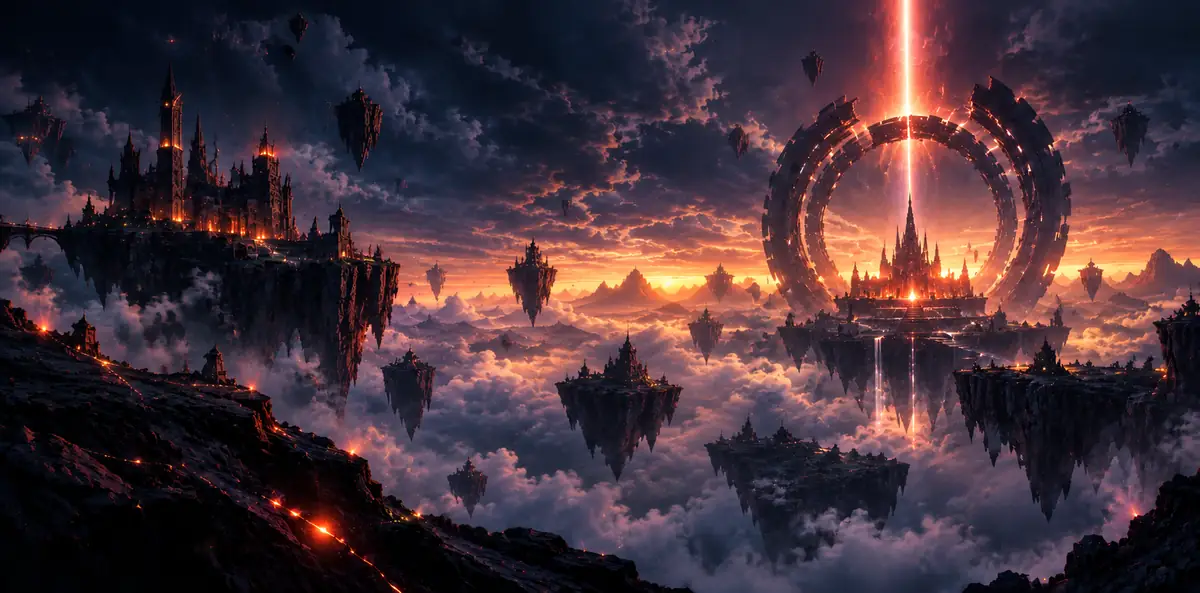
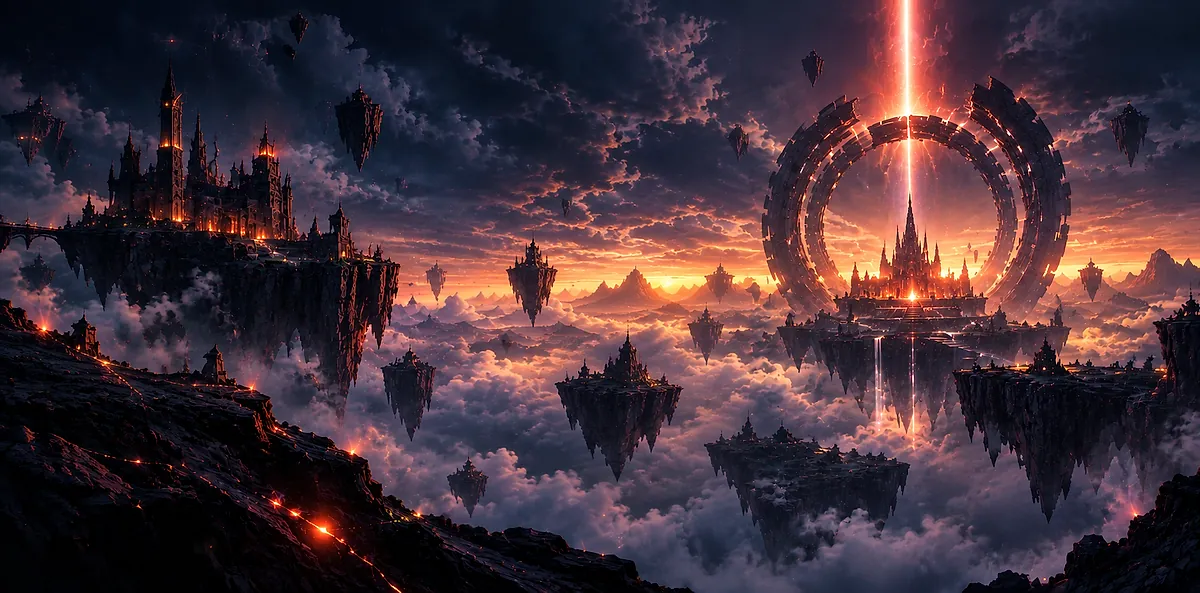
타이틀 배경을 더 또렷하게
두 군데서 흐려지고 있었다.
  1) 1784 짜리를 2400 으로 늘려 놨다. 늘리는 순간 흐려지고, 브라우저가
     어차피 화면 크기로 다시 줄이면서 두 번 뭉갠다.
  2) WebP 품질 72 는 구름·성벽 같은 고운 결을 먼저 버린다.

원본보다 크게 늘리지 않게 하고(withoutEnlargement), 품질을 90 으로 올리고,
WebP 가 먹는 만큼만 아주 살짝 세워 준다(sharpen 0.5). 149KB → 273KB.

diff --git a/scripts/make-backdrop.js b/scripts/make-backdrop.js
@@ -18,14 +18,16 @@ import sharp from 'sharp';
 
 const OUT = 'public/img';
 
-// [파일 이름, 가로, 품질] — 세로는 원본 비율 그대로 둔다.
-// 여기서 16:9 로 맞춰 잘라 버리면 그 순간 원본 좌우가 날아간다. 화면마다
-// 필요한 잘림은 CSS(object-fit: cover)가 그때그때 하는 게 맞다 — 넓은
-// 모니터와 세로 폰은 잘리는 방향부터 다르다.
-// 품질 72/68 은 눈으로 구별이 안 가면서 용량이 확 떨어지는 지점이다.
+// [파일 이름, 최대 가로, 품질, 선명하게]
+// 세로는 원본 비율 그대로 둔다. 여기서 16:9 로 맞춰 잘라 버리면 그 순간
+// 원본 좌우가 날아간다 — 화면마다 필요한 잘림은 CSS(object-fit: cover)가
+// 그때그때 하는 게 맞다. 넓은 모니터와 세로 폰은 잘리는 방향부터 다르다.
+// 원본보다 크게 늘리지 않는다. 늘려 놓으면 그 순간 흐려지고, 브라우저가
+// 어차피 화면 크기로 다시 줄이면서 두 번 뭉갠다. 원본 픽셀을 그대로 주고
+// 줄이는 건 브라우저에 맡기는 쪽이 훨씬 또렷하다.
 const SIZES = [
-  ['title-bg.webp', 2400, 72],
-  ['title-bg-sm.webp', 1200, 68]
+  ['title-bg.webp', 2400, 90, 0.5],
+  ['title-bg-sm.webp', 1200, 80, 0.7]
 ];
 
 const kb = (p) => (statSync(p).size / 1024).toFixed(0) + 'KB';
@@ -44,10 +46,13 @@ async function main() {
   }
 
   mkdirSync(OUT, { recursive: true });
-  for (const [name, w, quality] of SIZES) {
+  for (const [name, w, quality, sharpen] of SIZES) {
     const out = join(OUT, name);
     const info = await sharp(src)
-      .resize({ width: w })
+      .resize({ width: w, withoutEnlargement: true })
+      // WebP 는 결이 고운 곳을 뭉갠다. 아주 살짝 세워 준다 — 세게 주면
+      // 구름 가장자리에 흰 테가 생긴다.
+      .sharpen({ sigma: sharpen })
       .webp({ quality, effort: 6 })
       .toFile(out);
     console.log(`만듦  ${out}  ${info.width}×${info.height}  ${kb(out)}`);
